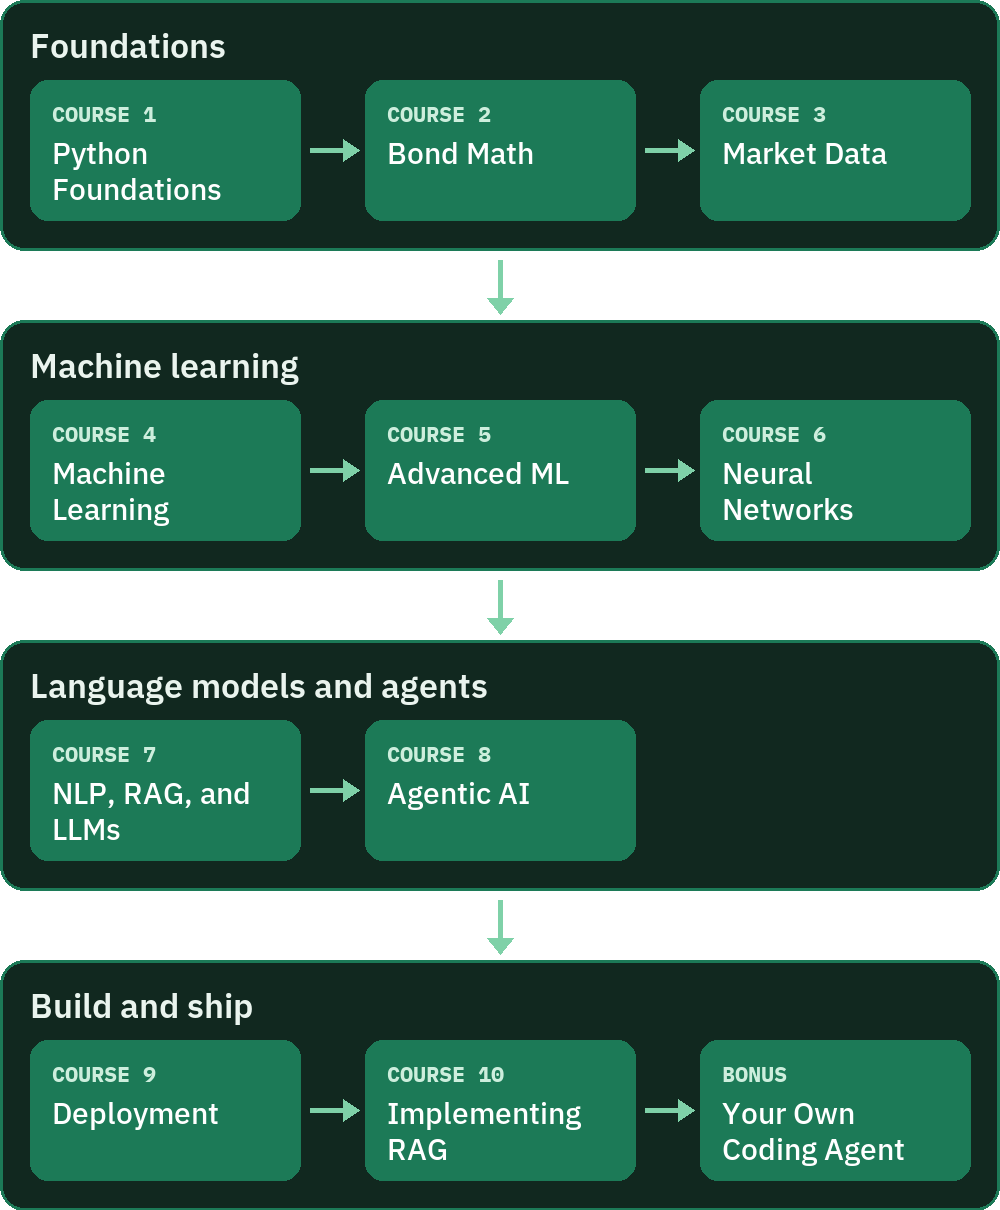
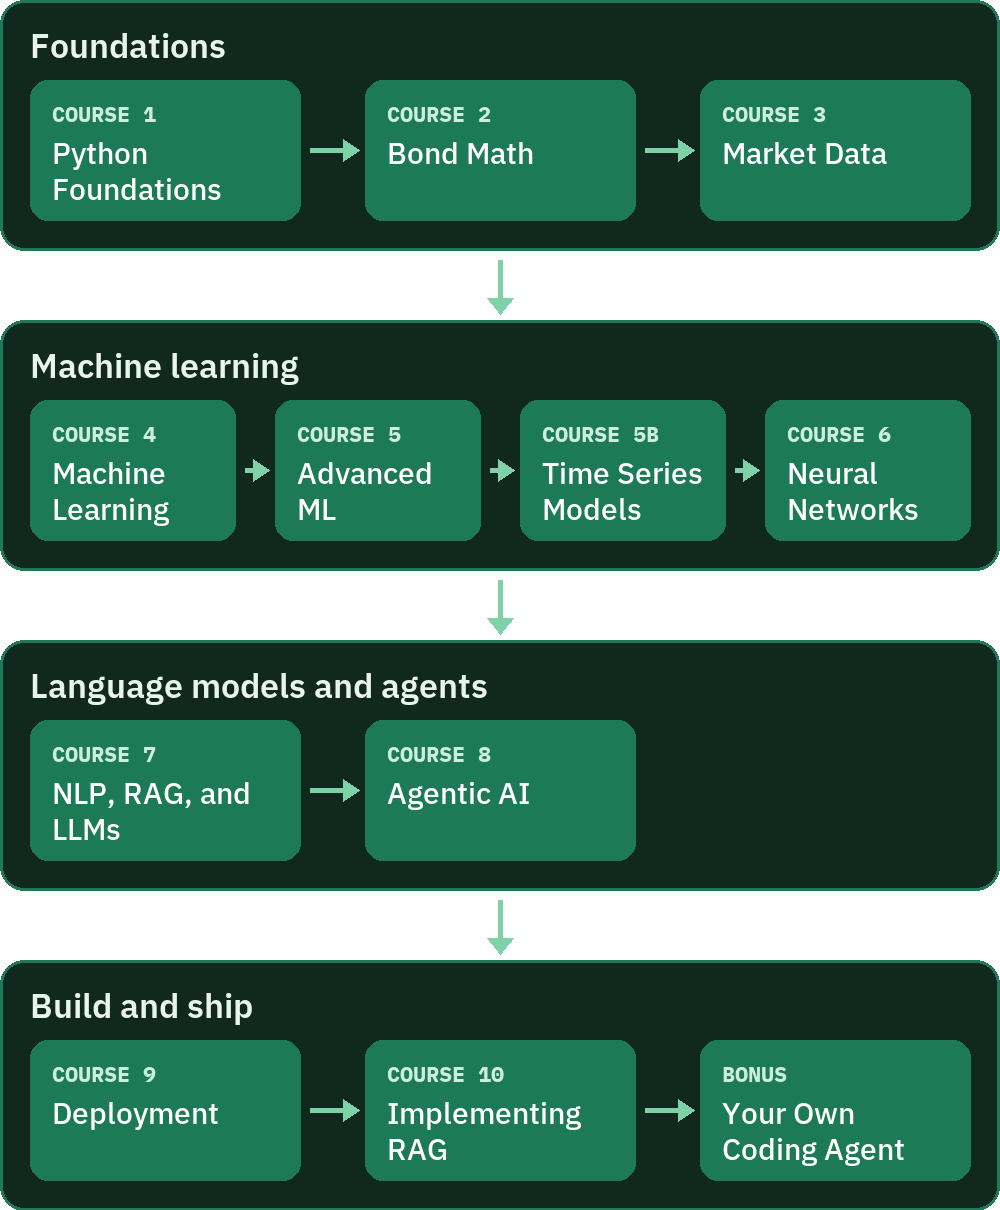
Course 5B on the front page: path diagram (a band of four cards), course tables, Excel rows, and the requirements header
Claude-Session: https://claude.ai/code/session_0129o8Fu1i5jkh6t2WDAijee

Changed region(s): [[0.217, 0.3058, 0.93, 0.4587]]

diff --git a/tools/make_path_diagram.py b/tools/make_path_diagram.py
@@ -15,7 +15,7 @@ OUT = Path(__file__).resolve().parent.parent / "assets" / "readme"
 STAGES = [
     ("Foundations", [("Course 1", "Python Foundations"), ("Course 2", "Bond Math"), ("Course 3", "Market Data")]),
     ("Machine learning", [("Course 4", "Machine Learning"), ("Course 5", "Advanced ML"),
-                          ("Course 6", "Neural Networks")]),
+                          ("Course 5B", "Time Series Models"), ("Course 6", "Neural Networks")]),
     ("Language models and agents", [("Course 7", "NLP, RAG, and LLMs"), ("Course 8", "Agentic AI")]),
     ("Build and ship", [("Course 9", "Deployment"), ("Course 10", "Implementing RAG"),
                         ("Bonus", "Your Own Coding Agent")]),
@@ -26,6 +26,7 @@ PAD = 30
 CARD_W = 270
 CARD_H = 140
 CARD_GAP = (WIDTH - 2 * PAD - 3 * CARD_W) // 2
+NARROW_GAP = 40  # a band of four cards (Course 5B joined Machine learning, 2026-10-20) uses narrower cards
 BAND_H = 250
 BAND_GAP = 70
 
@@ -71,18 +72,19 @@ def draw(theme: dict) -> Image.Image:
         canvas.text((PAD, top + 58), stage, font=title_font, fill=theme["title"], anchor="ls")
 
         card_top = top + BAND_H - PAD - CARD_H
+        card_w, gap = (CARD_W, CARD_GAP) if len(courses) <= 3 else             ((WIDTH - 2 * PAD - (len(courses) - 1) * NARROW_GAP) // len(courses), NARROW_GAP)
         for j, (label, name) in enumerate(courses):
-            left = PAD + j * (CARD_W + CARD_GAP)
-            canvas.rounded_rectangle((left, card_top, left + CARD_W, card_top + CARD_H), radius=18,
+            left = PAD + j * (card_w + gap)
+            canvas.rounded_rectangle((left, card_top, left + card_w, card_top + CARD_H), radius=18,
                                      fill=theme["card"])
             canvas.text((left + 22, card_top + 42), label.upper(), font=label_font, fill=theme["label"],
                         anchor="ls")
-            for k, line in enumerate(wrap(name, name_font, CARD_W - 44)):
+            for k, line in enumerate(wrap(name, name_font, card_w - 44)):
                 canvas.text((left + 22, card_top + 84 + k * 36), line, font=name_font, fill=theme["name"],
                             anchor="ls")
             if j:
                 mid = card_top + CARD_H // 2
-                arrow(canvas, (left - CARD_GAP + 10, mid), (left - 10, mid), theme["arrow"])
+                arrow(canvas, (left - gap + 10, mid), (left - 10, mid), theme["arrow"])
 
         if i < len(STAGES) - 1:
             arrow(canvas, (WIDTH // 2, top + BAND_H + 10), (WIDTH // 2, top + BAND_H + BAND_GAP - 10),

diff --git a/README.md b/README.md
@@ -7,7 +7,7 @@
 
 <h3>From your first line of code to your own AI agents.<br>Taught entirely through the work of a credit desk.</h3>
 
-[![Courses](https://img.shields.io/badge/Courses-10_%2B_Bonus-123D2F?style=for-the-badge)](#the-courses)
+[![Courses](https://img.shields.io/badge/Courses-11_%2B_Bonus-123D2F?style=for-the-badge)](#the-courses)
 [![Notebooks](https://img.shields.io/badge/Notebooks-156-123D2F?style=for-the-badge)](#the-courses)
 [![Price](https://img.shields.io/badge/Price-Free-1C7A57?style=for-the-badge)](#start-here)
 [![Python](https://img.shields.io/badge/Python-3.13-1C7A57?style=for-the-badge&logo=python&logoColor=white)](https://www.python.org/downloads/)
@@ -78,12 +78,12 @@ And it keeps going. You will price bonds with code you wrote and tested against 
 
 ## The path
 
-Ten courses and a bonus, each one building on the last.
+Eleven courses and a bonus, each one building on the last.
 
 <p align="center">
   <picture>
     <source media="(prefers-color-scheme: dark)" srcset="assets/readme/path-dark.png">
-    <img src="assets/readme/path-light.png" width="720" alt="The path: Foundations (Courses 1 to 3), then Machine learning (4 to 6), then Language models and agents (7 and 8), then Build and ship (9, 10, and the Bonus)">
+    <img src="assets/readme/path-light.png" width="720" alt="The path: Foundations (Courses 1 to 3), then Machine learning (4, 5, 5B, and 6), then Language models and agents (7 and 8), then Build and ship (9, 10, and the Bonus)">
   </picture>
 </p>
 
@@ -98,6 +98,7 @@ Every course ends with a capstone you can show.
 | **3** | [Market Data and Time Series](course3_market_data/README.md) | A daily market snapshot from a vendor extract you test, clean, and reconcile, written to HTML and Excel and run again for another date |
 | **4** | [Machine Learning](course4_machine_learning/README.md) | Three models compared on a public file of company statements, each tested on rows it never saw |
 | **5** | [Advanced Machine Learning](course5_advanced_ml/README.md) | A logistic regression, a random forest, XGBoost, and LightGBM compared on a public file of company ratios where bankruptcies are rare |
+| **5B** | [Time Series Models](course5b_time_series/README.md) | Two series repaired, tested, and modelled walk-forward with ARIMA, smoothing, GARCH, and LightGBM, each measured against carrying the last value forward |
 | **6** | [Neural Networks](course6_neural_networks/README.md) | A neural network built in Keras and measured against LightGBM, all on an ordinary laptop CPU |
 | **7** | [NLP, RAG, and LLMs](course7_nlp_and_llms/README.md) | A covenant extraction tool, run on an indenture you have never seen, with every number checked against the text |
 | **8** | [Implementing Agentic AI](course8_agentic_ai/README.md) | A multi-agent credit desk that writes a morning brief from FOMC statements, an indenture, and the book's risk, with every figure traced to the tool that produced it |
@@ -260,7 +261,7 @@ Four habits run through every day.
 
 ## The courses
 
-Each course has its own folder, course map, and install list. Weeks start again at 1 in every course. All ten courses and the Bonus course are ready.
+Each course has its own folder, course map, and install list. Weeks start again at 1 in every course. Courses 1 to 10 and the Bonus course are ready; Course 5B is being built.
 
 | Course | Length | What it covers |
 |:---:|:---:|:---|
@@ -269,6 +270,7 @@ Each course has its own folder, course map, and install list. Weeks start again 
 | **3** | 3 weeks | [Market Data and Time Series](course3_market_data/README.md): APIs and keys kept secret, market calendars, changes, volatility, z-scores, percentile ranks, slopes, butterflies, and SQL |
 | **4** | 3 weeks | [Machine Learning](course4_machine_learning/README.md): regression on the spread cross-section, logistic regression, thresholds, decision trees, walk-forward validation, clustering, and PCA |
 | **5** | 3 weeks | [Advanced Machine Learning](course5_advanced_ml/README.md): bagging, random forests, boosting, XGBoost, LightGBM, stacking, honest tuning, rare events, and SHAP values |
+| **5B** | 2 weeks | [Time Series Models](course5b_time_series/README.md): missing data and corrections, lags and the naive baselines, stationarity, ACF and PACF, ARIMA, exponential smoothing, GARCH, lag features with LightGBM, and cointegration |
 | **6** | 3 weeks | [Neural Networks](course6_neural_networks/README.md): gradients by hand, dense networks in Keras, optimizers, regularization, and sequence models on the Treasury curve |
 | **7** | 3 weeks | [NLP, RAG, and LLMs](course7_nlp_and_llms/README.md): TF-IDF, embeddings, semantic search, EDGAR filings, large language models, and covenant extraction from real indentures |
 | **8** | 3 weeks | [Implementing Agentic AI](course8_agentic_ai/README.md): the agent loop by hand, tools, MCP, the OpenAI Agents SDK, an orchestrator with specialists, evals, and guardrails |

diff --git a/EXCEL.md b/EXCEL.md
@@ -91,6 +91,11 @@ Every Excel comparison in the series, course by course. Each notebook introduces
 | Add a SHAP row with `SUM` to the model's log-odds, turn it into a probability with `EXP`, and average absolute values with `AVERAGE(ABS(...))` | Split a company's score across its ratios with SHAP values, and never read a contribution as a cause | 5 | Week 3, Day 4 |
 | Check the capstone's confusion matrix with `COUNTIFS`, its interval with `PERCENTILE.INC`, and a SHAP row with `SUM` | Compare four models on a new file, test once, describe the chosen one with SHAP values, and write the results to Excel | 5 | Week 3, Day 5 |
 | Chart a comparison of models as a clustered column, bar, line, or scatter chart, add custom error bars for a spread of fold scores, and shade a table with a conditional formatting color scale | Draw every comparison as a chart and show it as a formatted table with the best value in each column marked | 5 | Week 1, Day 1 to Week 3, Day 4 |
+| Use `COUNTBLANK` on each column, and `NETWORKDAYS` less `ROWS` to count absent dates | Count blanks per column and the absent market dates, then find each gap's run and kind | 5B | Week 1, Day 1 |
+| Fill a blank with the cell above, `=IF(B3="",C2,B3)` | Forward fill with `ffill`, and stop it at a long outage with `limit=` | 5B | Week 1, Day 1 |
+| Interpolate a gap by row position, and by date, with a few cells of arithmetic | `interpolate` linear and by time, compared against the true values held back | 5B | Week 1, Day 1 |
+| Fill blanks from a second sheet with `XLOOKUP` | `combine_first` from a second source, and `update` from a corrections table, with a change log | 5B | Week 1, Day 1 |
+| Flag a wrong print with `AND` and `IFERROR`: a jump that reverses the next day | The same jump-and-back rule on every column at once | 5B | Week 1, Day 1 |
 | Fill a neuron's output `=1/(1+EXP(-($H$1+$H$2*A2)))` down a column, take its gradient with `SUMPRODUCT` over `ROWS`, and fill a 100-step descent path | Compute a log loss and its gradient by hand, check them against `tf.GradientTape`, and take gradient steps | 6 | Week 1, Day 1 |
 | Maximise a log-likelihood with Solver, scale columns with `AVERAGE` and `STDEV.P`, and score a row with `SUMPRODUCT` and `EXP` | Fit one Keras neuron and show that it is a logistic regression, with the same odds ratios | 6 | Week 1, Day 2 |
 | Build a hidden layer from `SUMPRODUCT`, `MAX`, and `TANH`, and count a network's weights with `=19*32+32+32*1+1` | Add hidden layers, reproduce a network's output in numpy, and count its parameters | 6 | Week 1, Day 3 |
